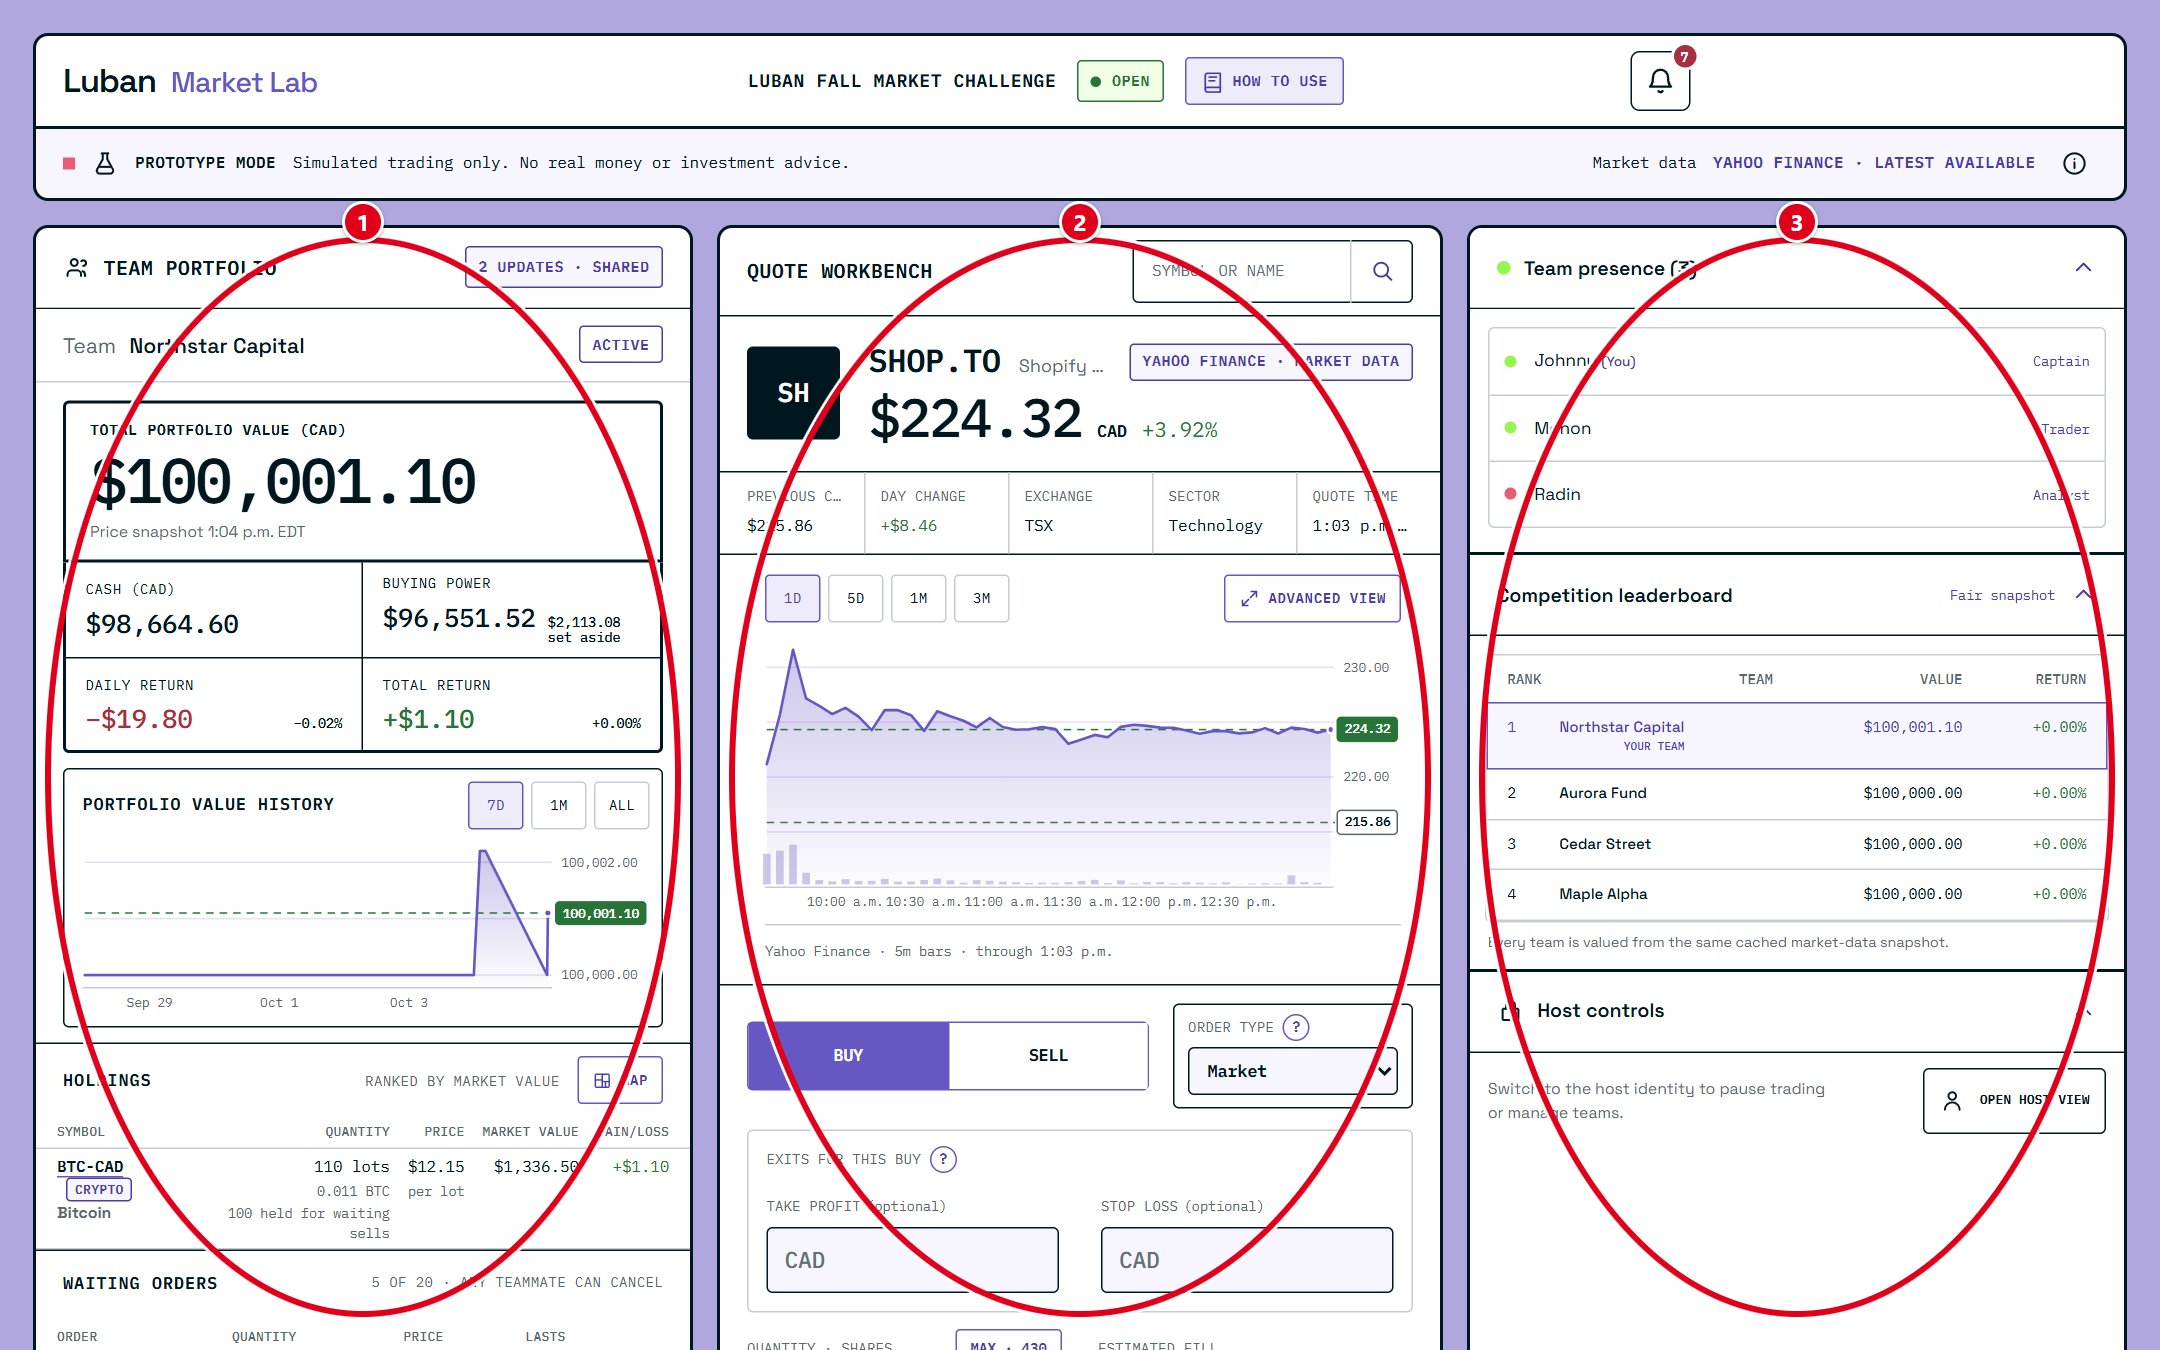
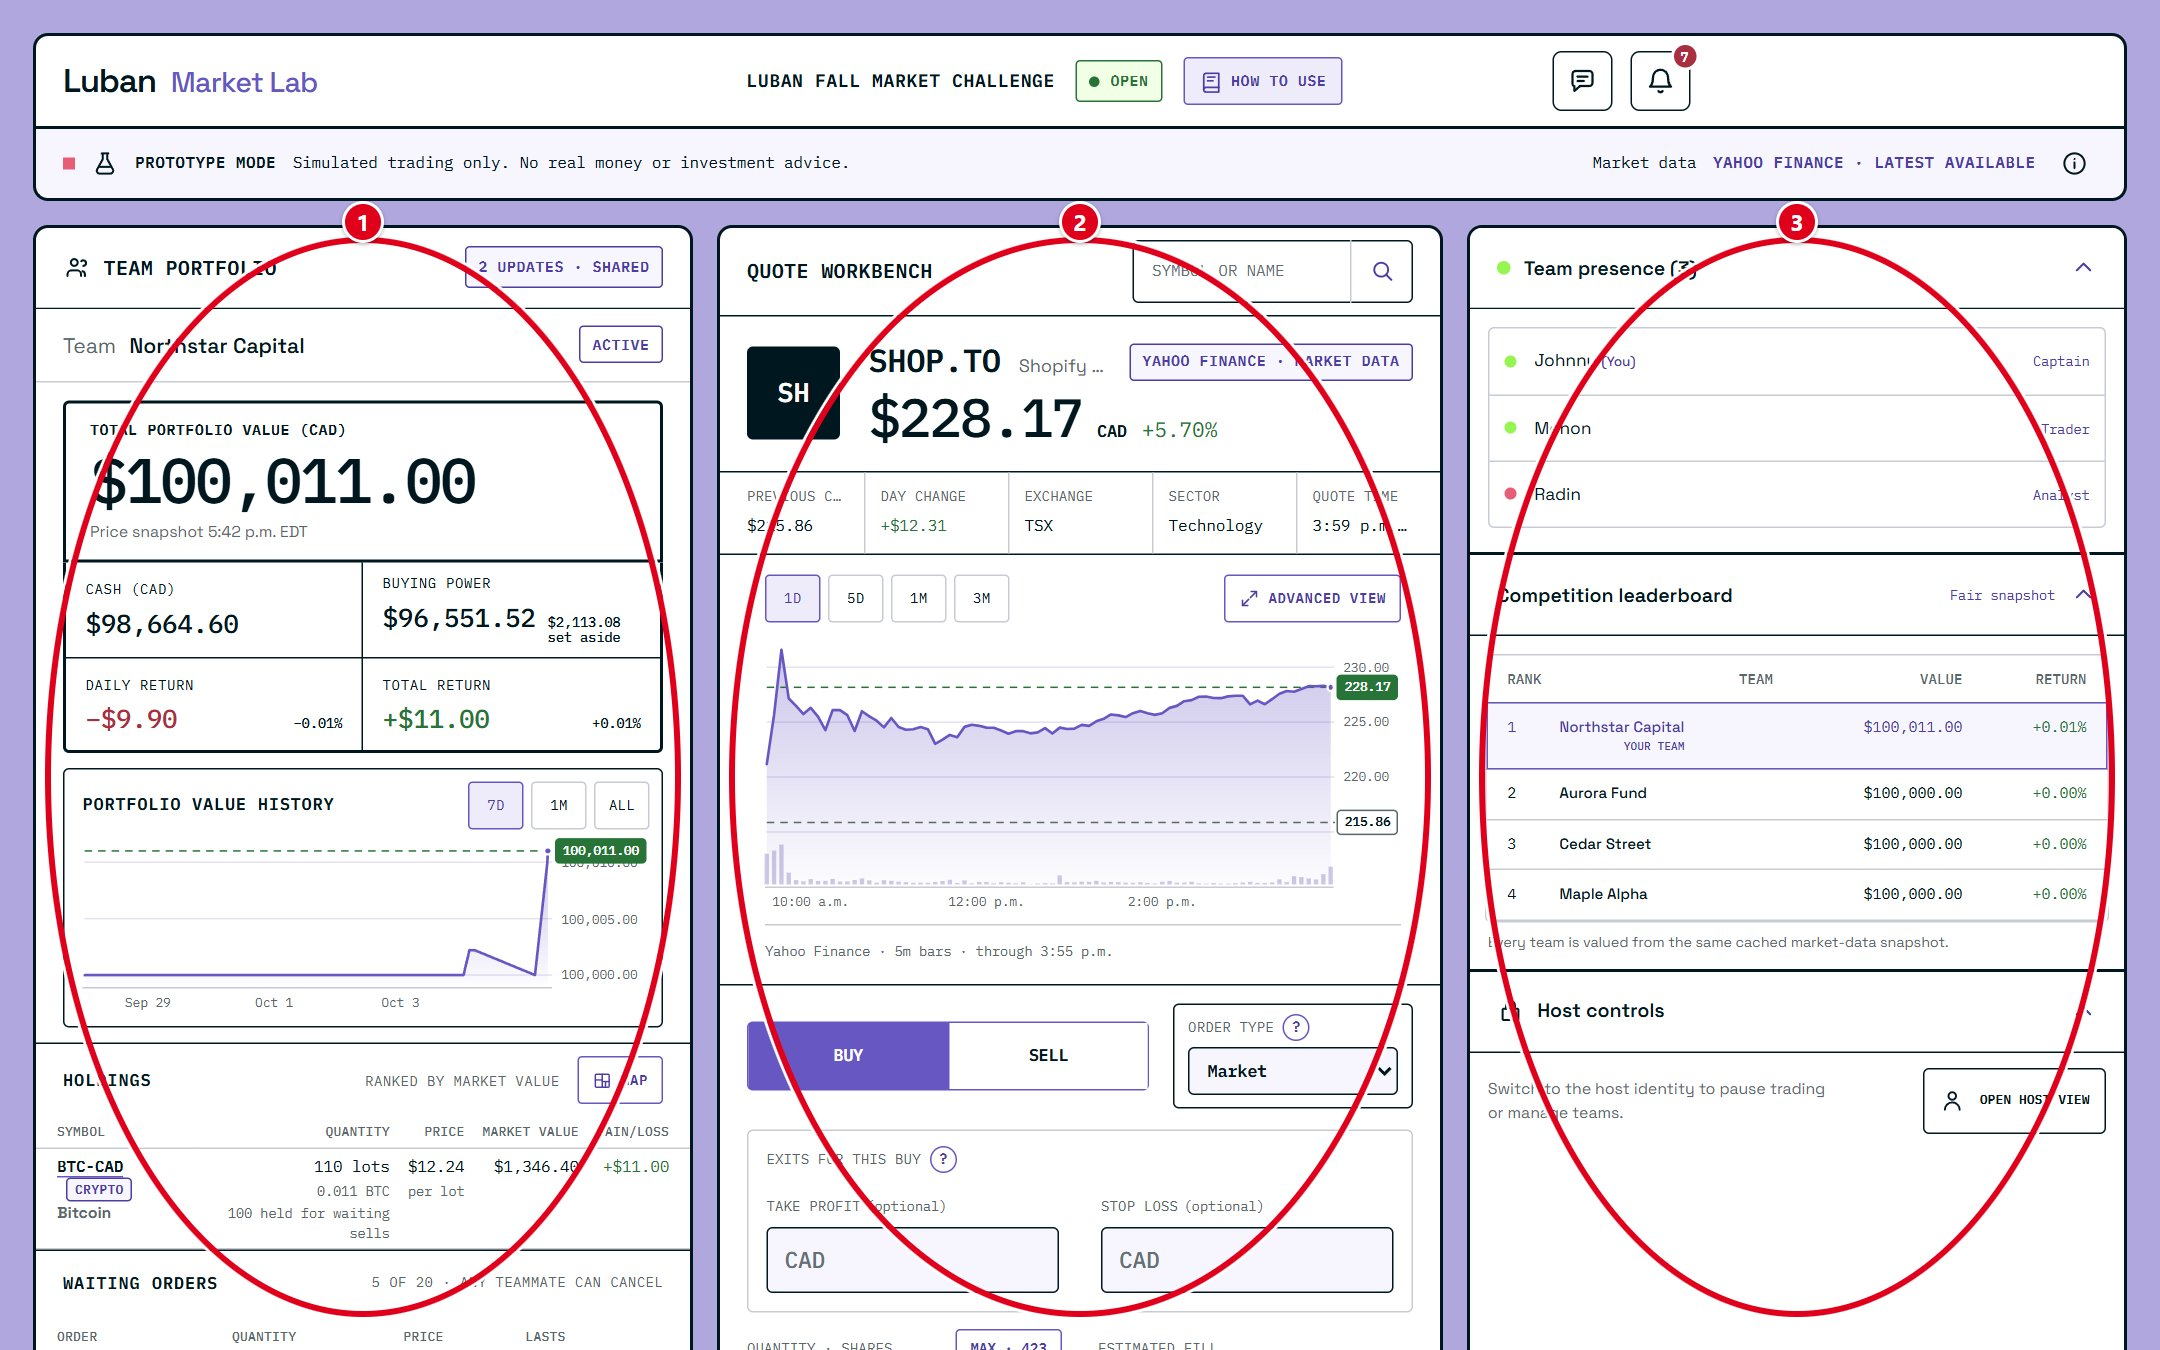
Link to the Market Lab feedback form
Every footer gets a Give feedback link to sim.lubancanada.com/feedback with the Website topic chosen, and the guide explains the feedback button and recaptures the header shots that show it.

diff --git a/sim-guide.html b/sim-guide.html
@@ -272,7 +272,7 @@
             <p class="guide-step__number">Step 2</p>
             <h2 id="step-header-title">The top bar</h2>
             <figure class="guide-shot guide-shot--wide">
-              <a class="guide-shot__link" href="assets/images/sim-guide/02-header.jpg" aria-label="Open this screenshot full size"><img src="assets/images/sim-guide/02-header.jpg" width="2151" height="225" alt="The Market Lab's top bar with the competition name, the How to use button, the activity bell, and the market data status circled." loading="lazy" decoding="async"></a>
+              <a class="guide-shot__link" href="assets/images/sim-guide/02-header.jpg" aria-label="Open this screenshot full size"><img src="assets/images/sim-guide/02-header.jpg" width="2151" height="225" alt="The Market Lab's top bar with the competition name, the How to use button, the feedback button, the activity bell, and the market data status circled." loading="lazy" decoding="async"></a>
               <figcaption class="guide-shot__hint">Swipe to see the whole screen, or tap to open it full size.</figcaption>
             </figure>
             <ol class="guide-callouts">
@@ -284,6 +284,11 @@
               <li>
                 <strong>How to use.</strong> Opens this guide in a new tab, so
                 you can follow along while you trade.
+              </li>
+              <li>
+                <strong>Feedback.</strong> The speech-bubble button. Tell us
+                about anything confusing or broken, on the simulator or this
+                website. Pick what it's about, write a few words, and send.
               </li>
               <li>
                 <strong>Activity bell.</strong> Your team's activity feed
@@ -739,7 +744,7 @@
               behind the bell at the top right.
             </p>
             <figure class="guide-shot guide-shot--narrow">
-              <a class="guide-shot__link" href="assets/images/sim-guide/15-activity.jpg" aria-label="Open this screenshot full size"><img src="assets/images/sim-guide/15-activity.jpg" width="675" height="918" alt="The activity bell opened to show the team activity feed, with the bell, the newest entry, and its status tag circled." loading="lazy" decoding="async"></a>
+              <a class="guide-shot__link" href="assets/images/sim-guide/15-activity.jpg" aria-label="Open this screenshot full size"><img src="assets/images/sim-guide/15-activity.jpg" width="693" height="918" alt="The activity bell opened to show the team activity feed, with the bell, the newest entry, and its status tag circled." loading="lazy" decoding="async"></a>
             </figure>
             <ol class="guide-callouts">
               <li>
@@ -847,6 +852,13 @@
                 <a href="mailto:jsun.luban@gmail.com">jsun.luban@gmail.com</a>.
               </li>
             </ul>
+            <p>
+              <strong>Something confusing or broken?</strong> Tell us. Sign in
+              to the Market Lab and use the
+              <a href="https://sim.lubancanada.com/feedback">feedback form</a>,
+              or the speech-bubble button next to the activity bell. You can
+              send feedback about this website or the simulator.
+            </p>
             <p class="guide-disclaimer">
               The Market Lab uses simulated money for education. Nothing in
               this guide is investment advice. See the
@@ -876,6 +888,7 @@
           <p>
             <a href="privacy.html">Privacy</a>
             <a href="terms.html">Terms and contest rules</a>
+            <a href="https://sim.lubancanada.com/feedback?topic=website">Give feedback</a>
           </p>
           <p>Copyright &copy; 2026 Luban. All rights reserved.</p>
         </div>

diff --git a/discovering-entrepreneurship.html b/discovering-entrepreneurship.html
@@ -331,6 +331,7 @@
           <p>
             <a href="privacy.html">Privacy</a>
             <a href="terms.html">Terms and contest rules</a>
+            <a href="https://sim.lubancanada.com/feedback?topic=website">Give feedback</a>
           </p>
           <p>Copyright &copy; 2026 Luban. All rights reserved.</p>
         </div>

diff --git a/econ.html b/econ.html
@@ -425,6 +425,7 @@
           <p>
             <a href="privacy.html">Privacy</a>
             <a href="terms.html">Terms and contest rules</a>
+            <a href="https://sim.lubancanada.com/feedback?topic=website">Give feedback</a>
           </p>
           <p>Copyright &copy; 2026 Luban. All rights reserved.</p>
         </div>

diff --git a/index.html b/index.html
@@ -556,6 +556,7 @@
           <p>
             <a href="privacy.html">Privacy</a>
             <a href="terms.html">Terms and contest rules</a>
+            <a href="https://sim.lubancanada.com/feedback?topic=website">Give feedback</a>
           </p>
           <p>Copyright &copy; 2026 Luban. All rights reserved.</p>
         </div>

diff --git a/paper-trading-simulation.html b/paper-trading-simulation.html
@@ -604,6 +604,7 @@
           <p>
             <a href="privacy.html">Privacy</a>
             <a href="terms.html">Terms and contest rules</a>
+            <a href="https://sim.lubancanada.com/feedback?topic=website">Give feedback</a>
           </p>
           <p>Copyright &copy; 2026 Luban. All rights reserved.</p>
         </div>

diff --git a/privacy.html b/privacy.html
@@ -277,6 +277,7 @@
           <p>
             <a href="privacy.html">Privacy</a>
             <a href="terms.html">Terms and contest rules</a>
+            <a href="https://sim.lubancanada.com/feedback?topic=website">Give feedback</a>
           </p>
           <p>Copyright &copy; 2026 Luban. All rights reserved.</p>
         </div>

diff --git a/spc.html b/spc.html
@@ -461,6 +461,7 @@
           <p>
             <a href="privacy.html">Privacy</a>
             <a href="terms.html">Terms and contest rules</a>
+            <a href="https://sim.lubancanada.com/feedback?topic=website">Give feedback</a>
           </p>
           <p>Copyright &copy; 2026 Luban. All rights reserved.</p>
         </div>

diff --git a/terms.html b/terms.html
@@ -343,6 +343,7 @@
           <p>
             <a href="privacy.html">Privacy</a>
             <a href="terms.html">Terms and contest rules</a>
+            <a href="https://sim.lubancanada.com/feedback?topic=website">Give feedback</a>
           </p>
           <p>Copyright &copy; 2026 Luban. All rights reserved.</p>
         </div>
